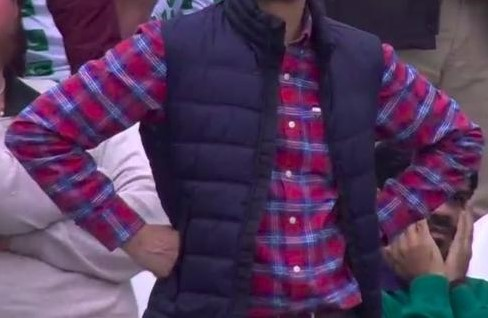
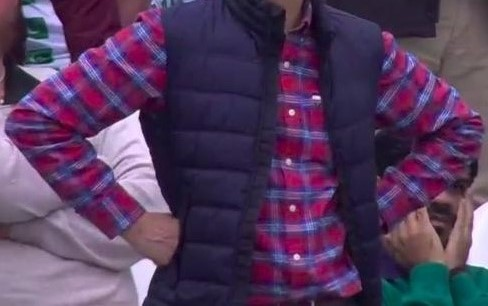
Image changes

diff --git a/index.html b/index.html
@@ -1,6 +1,6 @@
 <title>Quan Wah's webpage </title>
 <br>
-    <img src='deadinside.jpg'></br>
+    <img style='padding-left:100px' src='deadinside.jpg'></br>
     <img src="766.jpg"></br>
     <iframe width="560" height="315" src="https://www.youtube.com/embed/YnSW8ian29w"></iframe>
     <h1>This is ME!</h1>
